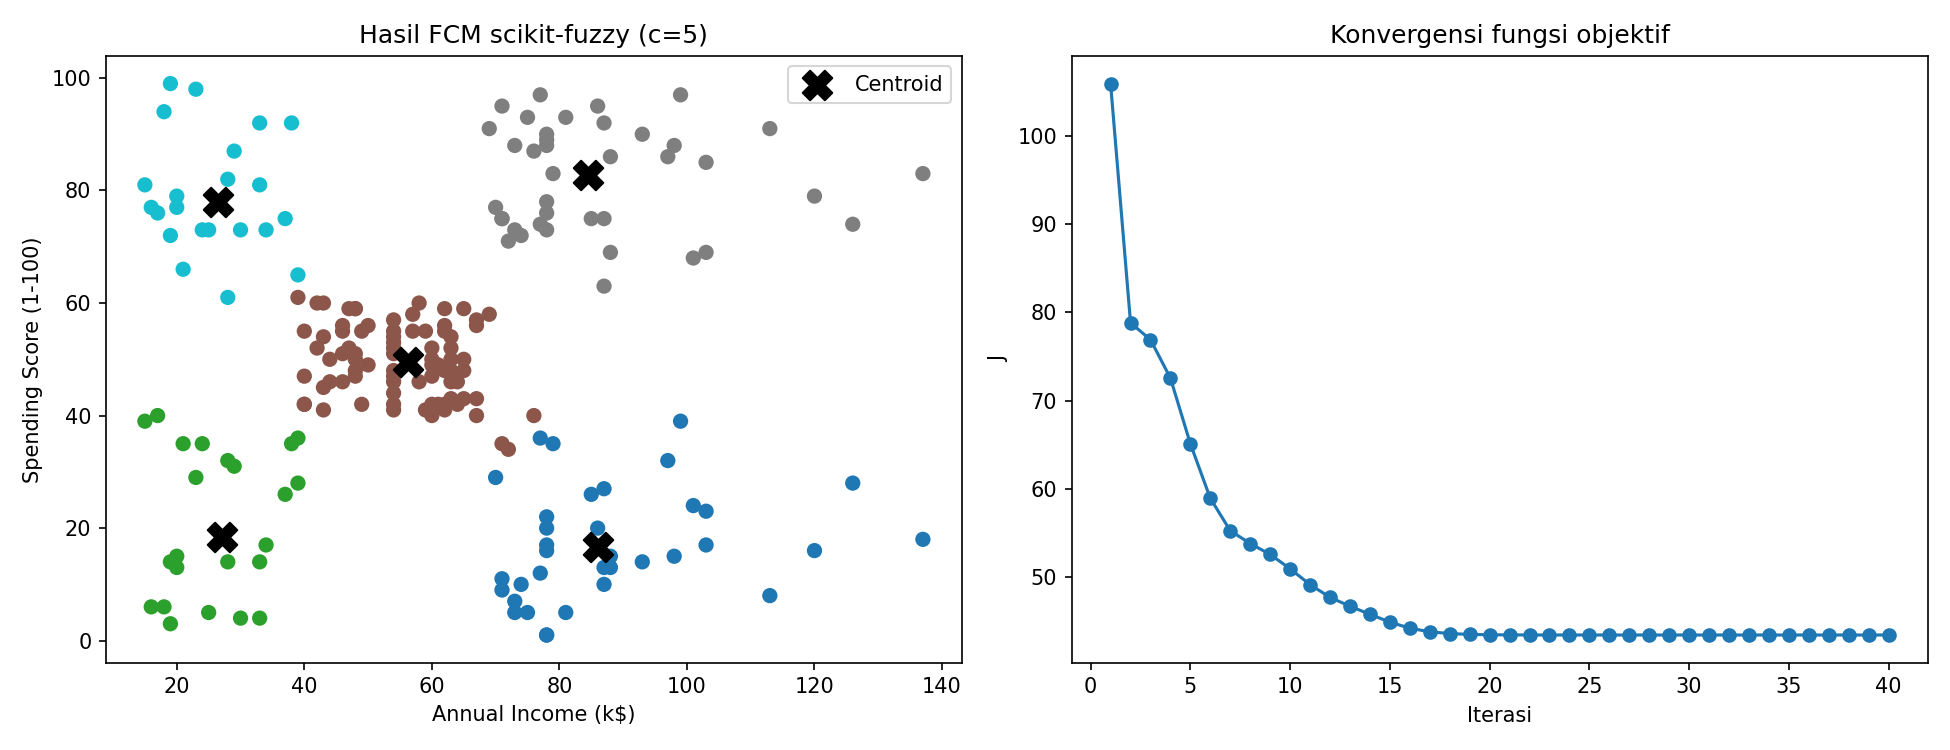
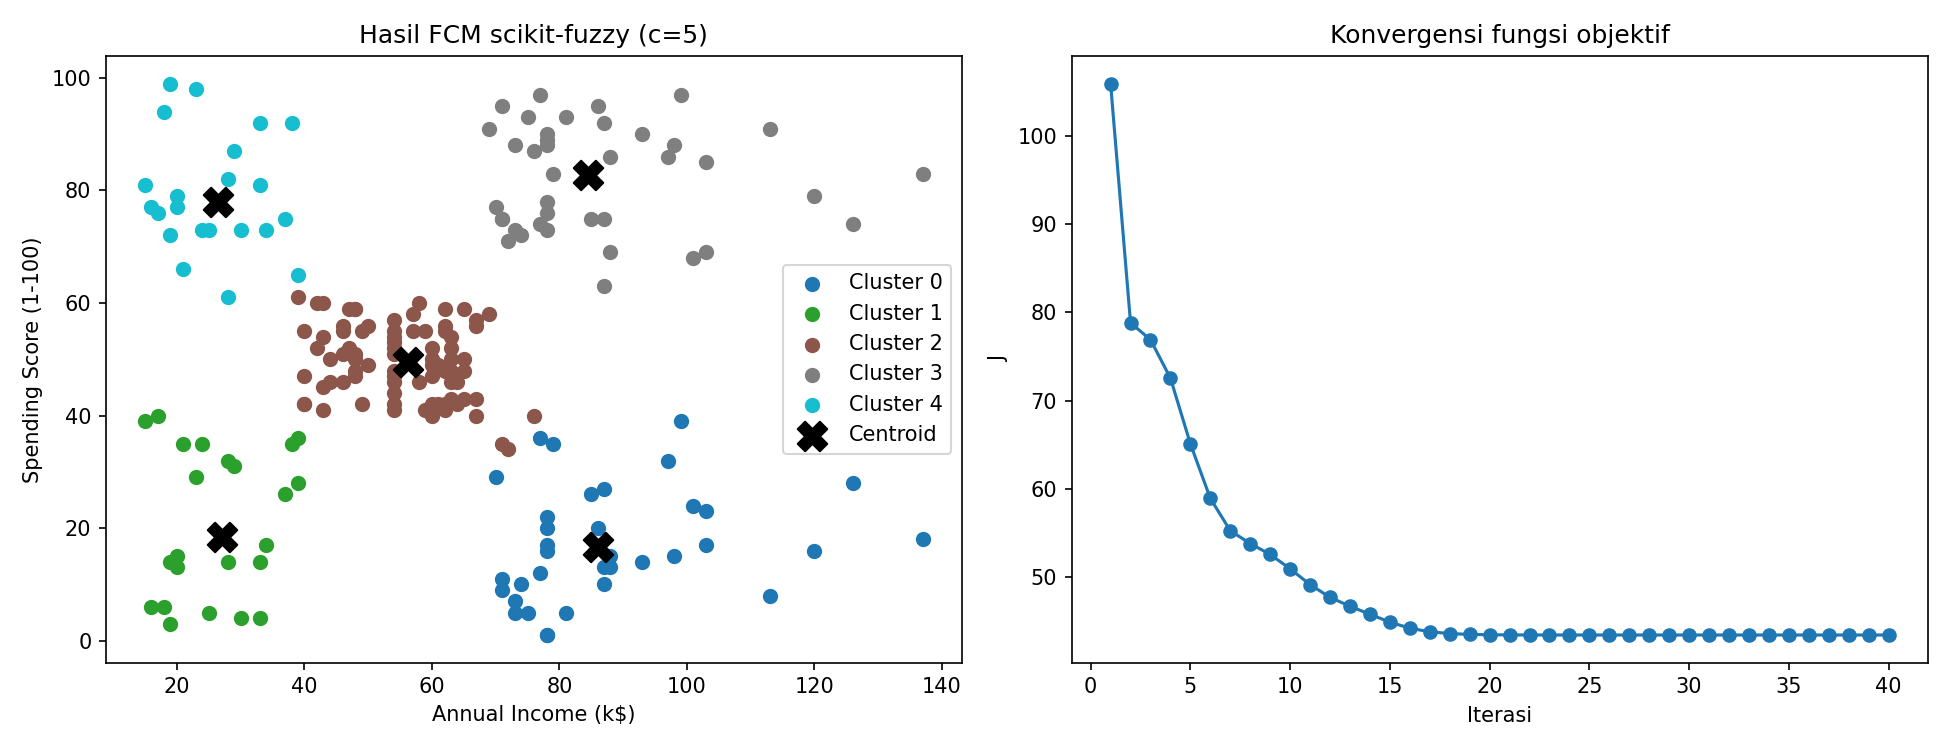
Fixing inconsistency and add legends for FCM outputs

diff --git a/FCM_MarketingCampaign.py b/FCM_MarketingCampaign.py
@@ -64,12 +64,17 @@ print(pd.DataFrame(u_baru.T, columns=[f'C{k}' for k in range(C)]).round(3))
 
 pusat = scaler.inverse_transform(cntr)
 fig, ax = plt.subplots(1, 2, figsize=(13, 5))
-ax[0].scatter(X[:, 0], X[:, 1], c=df['Cluster'], cmap='tab10', s=40)
+cmap = plt.get_cmap('tab10', C)
+for k in range(C):
+    anggota = df['Cluster'] == k
+    ax[0].scatter(X[anggota, 0], X[anggota, 1], color=cmap(k), s=40,
+                  label=f'Cluster {k}')
 ax[0].scatter(pusat[:, 0], pusat[:, 1], c='k', marker='X', s=200, label='Centroid')
-ax[0].set(title='Hasil FCM scikit-fuzzy (c=5)', xlabel=fitur[0], ylabel=fitur[1])
+ax[0].set(title='Hasil FCM scikit-fuzzy (c=3)', xlabel=fitur[0], ylabel=fitur[1])
 ax[0].legend()
 ax[1].plot(range(1, len(jm) + 1), jm, marker='o')
 ax[1].set(title='Konvergensi fungsi objektif', xlabel='Iterasi', ylabel='J')
 plt.tight_layout(); plt.savefig('Marketing_Campaign/FCM_skfuzzy.png', dpi=150)
+# plt.tight_layout(); plt.show()
 
 df.to_csv('Marketing_Campaign/FCM_skfuzzy.csv', index=False)

diff --git a/FCM_MallCustomers.py b/FCM_MallCustomers.py
@@ -46,7 +46,11 @@ print(pd.DataFrame(u_baru.T, columns=[f'C{k}' for k in range(C)]).round(3))
 
 pusat = scaler.inverse_transform(cntr)
 fig, ax = plt.subplots(1, 2, figsize=(13, 5))
-ax[0].scatter(X[:, 0], X[:, 1], c=df['Cluster'], cmap='tab10', s=40)
+cmap = plt.get_cmap('tab10', C)
+for k in range(C):
+    anggota = df['Cluster'] == k
+    ax[0].scatter(X[anggota, 0], X[anggota, 1], color=cmap(k), s=40,
+                  label=f'Cluster {k}')
 ax[0].scatter(pusat[:, 0], pusat[:, 1], c='k', marker='X', s=200, label='Centroid')
 ax[0].set(title='Hasil FCM scikit-fuzzy (c=5)', xlabel=fitur[0], ylabel=fitur[1])
 ax[0].legend()
